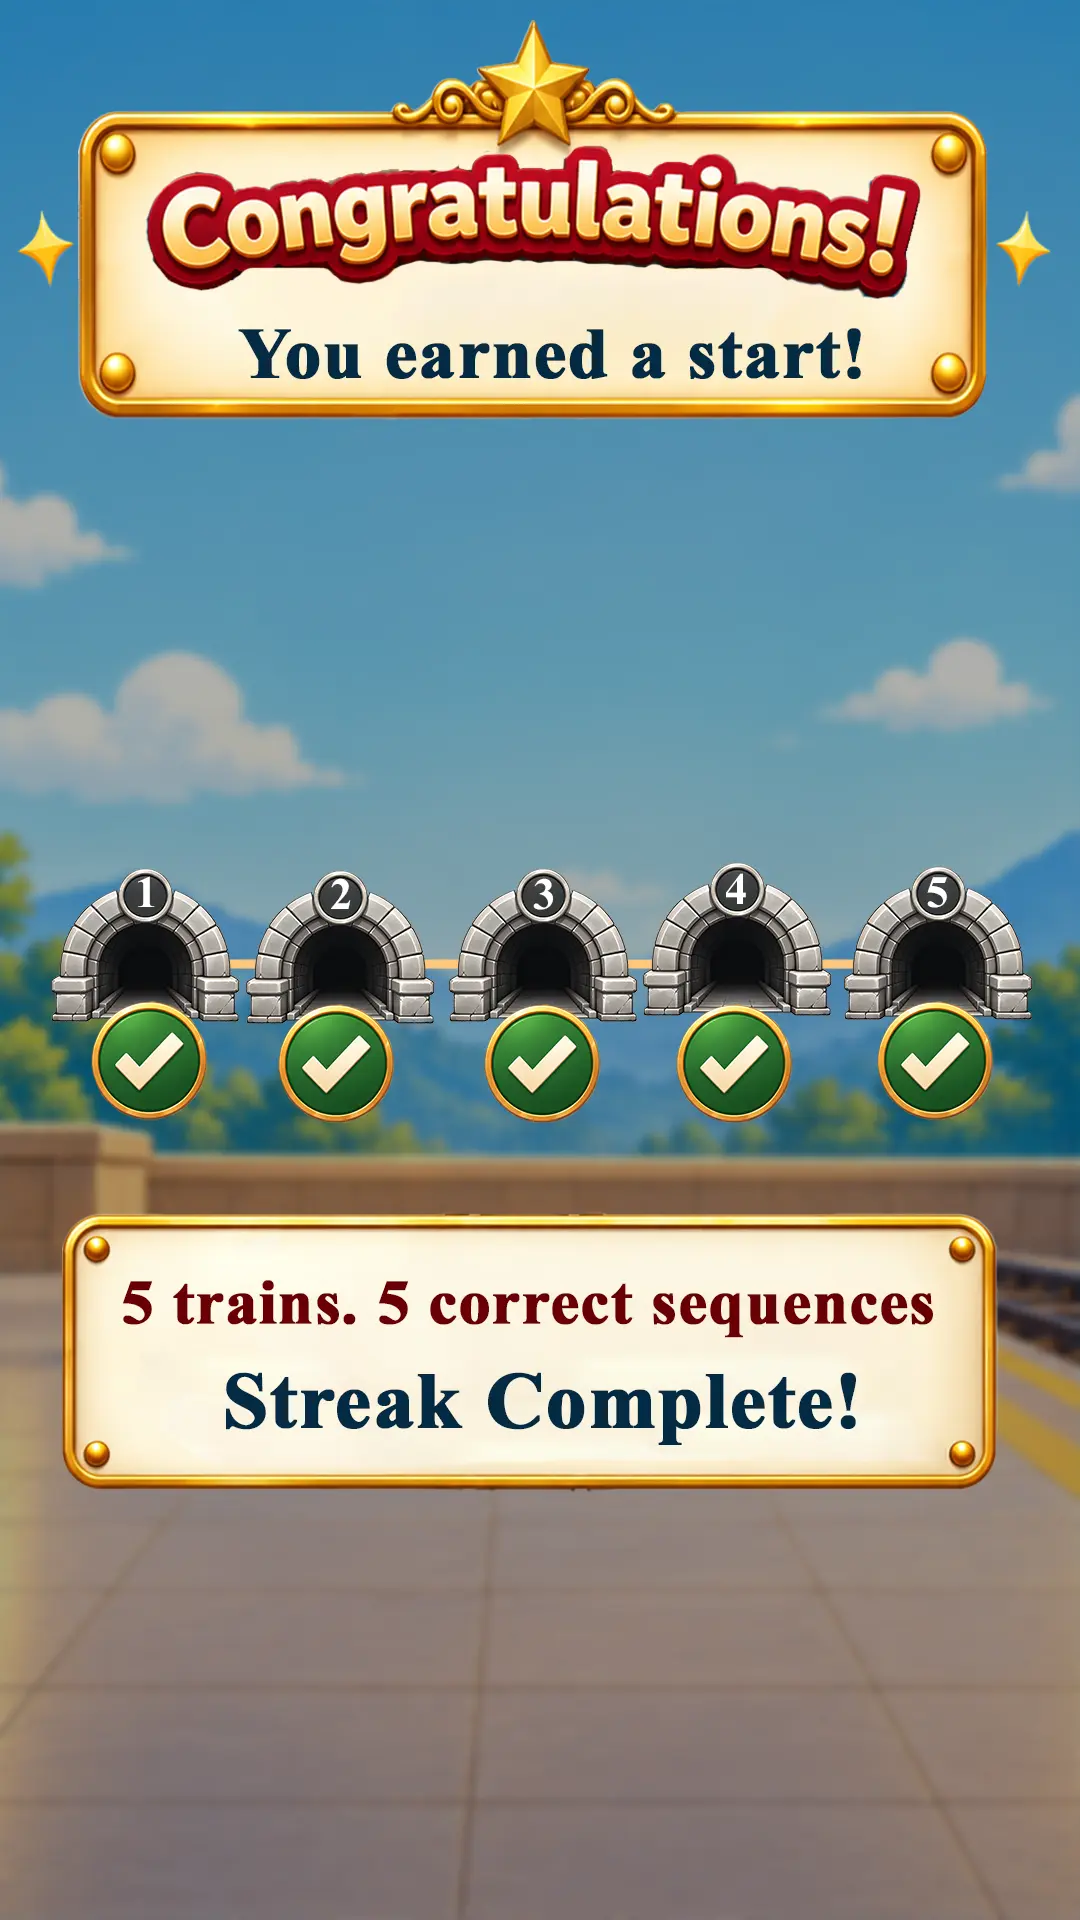
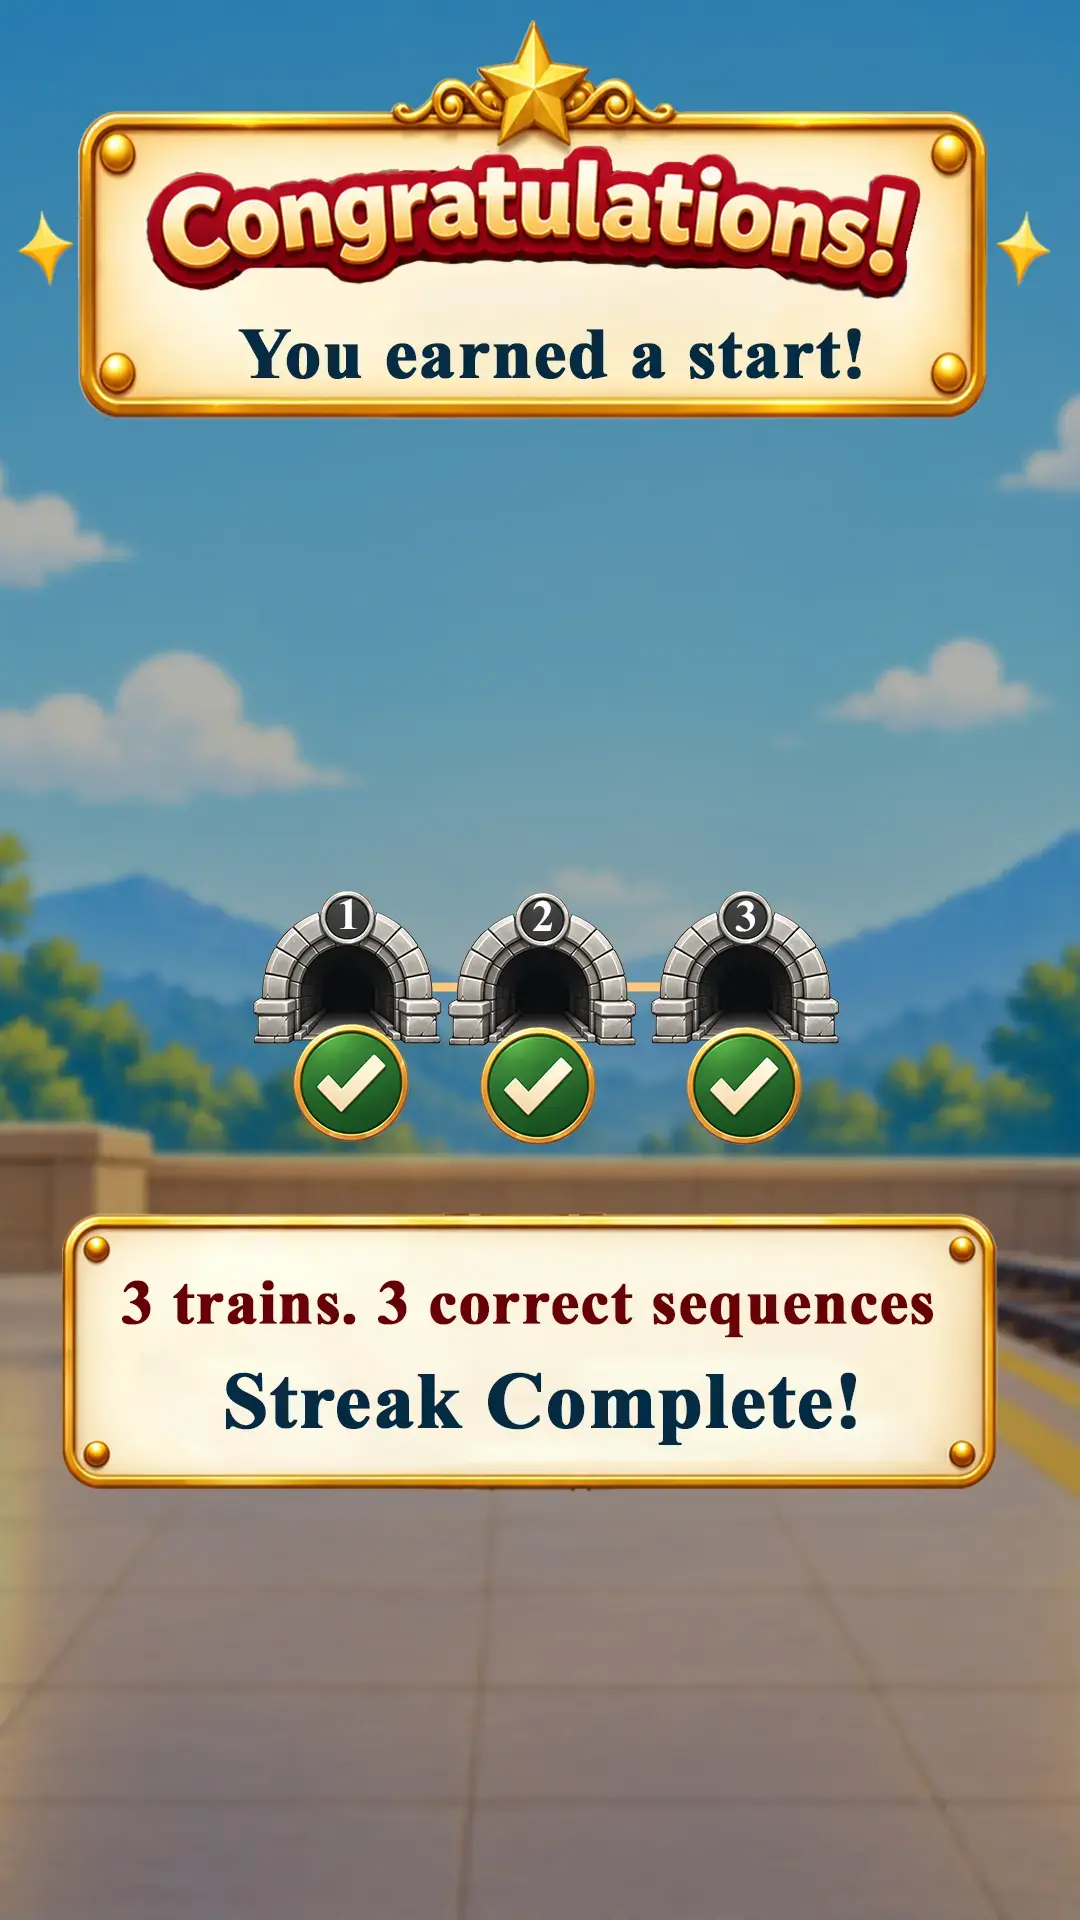
Refresh three-round challenge artwork and add Match It Blast It preview

Changed region(s): [[0.0306, 0.4375, 0.9778, 0.5938], [0.3361, 0.6562, 0.3972, 0.6875], [0.1222, 0.6562, 0.1528, 0.6875]]

diff --git a/index.html b/index.html
@@ -21,7 +21,7 @@
       if (l === 'te' || l === 'hi' || l === 'en') document.documentElement.lang = l;
     } catch (_) { }
   </script>
-  <link rel="stylesheet" href="./styles.css?v=53">
+  <link rel="stylesheet" href="./styles.css?v=54">
   <script src="./tile-match.js?v=23" defer></script>
   <script src="./app.js?v=31" defer></script>
   <link rel="stylesheet" href="./leaderboard.css?v=5">
@@ -477,7 +477,7 @@
             <img src="assets/solvent-master-game-assets/page-1/page-1-bg.webp" alt="Solvent Master" class="poster-card-image" loading="lazy">
           </div>
         </a>
-        <a class="game-poster poster-ab-express playable-poster" href="assets/ab-express-scripts/ab-express.html?v=45" aria-label="Play AB Express">
+        <a class="game-poster poster-ab-express playable-poster" href="assets/ab-express-scripts/ab-express.html?v=46" aria-label="Play AB Express">
           <div class="poster-card-wrap">
             <img src="assets/ab-express-assets/page-1/page-1-bg.webp" alt="AB Express" class="poster-card-image" loading="lazy">
           </div>
@@ -568,11 +568,18 @@
             <img src="assets/solvent-master-game-assets/page-1/page-1-bg.webp" alt="Solvent Master" class="poster-card-image" loading="lazy">
           </div>
         </a>
-        <a class="game-poster poster-ab-express playable-poster" href="assets/ab-express-scripts/ab-express.html?v=45" aria-label="Play AB Express">
+        <a class="game-poster poster-ab-express playable-poster" href="assets/ab-express-scripts/ab-express.html?v=46" aria-label="Play AB Express">
           <div class="poster-card-wrap">
             <img src="assets/ab-express-assets/page-1/page-1-bg.webp" alt="AB Express" class="poster-card-image" loading="lazy">
           </div>
         </a>
+        <article class="game-poster poster-match-blast" aria-label="Match It, Blast It - coming soon">
+          <div class="poster-card-wrap match-blast-banner">
+            <div class="match-blast-tiles" aria-hidden="true"><span>&#9670;</span><span>&#9670;</span><span>&#10022;</span></div>
+            <h2><span>Match It,</span><strong>Blast It</strong></h2>
+            <span class="match-blast-status">Coming Soon</span>
+          </div>
+        </article>
       </section>
       <section id="sample-preparation-gallery" class="sample-preparation-gallery" aria-label="Sample Preparation games"
         lang="en" hidden>

diff --git a/sw.js b/sw.js
@@ -1,8 +1,8 @@
 const CACHE_PREFIX = 'aurobindo-shell-';
-const CACHE = `${CACHE_PREFIX}v477`;
+const CACHE = `${CACHE_PREFIX}v478`;
 const ASSETS = ['./', './index.html', './styles.css?v=30', './app.js?v=18', './tile-match.js?v=23', './symptom-match.html', './symptom-match.css?v=18', './symptom-match.js?v=20', './chromatogram.html', './chromatogram.css?v=23', './chromatogram.js?v=22', './assets/toggle%20button.png', './assets/4%20arrow%20toggle%20outline.png', './assets/hpcl-logo-new.png', './assets/game-1-card.png', './assets/game-2-card.png', './assets/game-3-card.png', './assets/game-4-card.png', './logo.png', './icon.svg', './icons/icon-192.png', './icons/icon-512.png', './manifest.webmanifest?v=2'];
 ASSETS.push('./cleaning-solution.html', './cleaning-solution.css?v=7', './cleaning-solution.js?v=6');
-ASSETS.splice(ASSETS.indexOf('./styles.css?v=30'), 1, './styles.css?v=53');
+ASSETS.splice(ASSETS.indexOf('./styles.css?v=30'), 1, './styles.css?v=54');
 ASSETS.push('./audio/10s-timer-audio.wav', './assets/stopwatch.svg', './liquid-sort.html', './liquid-sort.css?v=60', './liquid-sort.js?v=58', './assets/test-tube.png', './audio/pour-audio.mp3', './assets/test-tube-game-assets/images/1-title-page/bg.webp', './assets/test-tube-game-assets/images/1-title-page/start-button.webp');
 ASSETS.push('./assets/positive-stickers/Anna%20Nuvvu%20King%20Telugu.webp', './assets/positive-stickers/Box%20Office%20Badhalu%20Kottav%20Telugu.webp', './assets/positive-stickers/Kya%20Baat%20Hai%20Hindi.webp', './assets/positive-stickers/Nailed%20It%21%20English.webp', './assets/positive-stickers/Shabaash%20Hindi.webp', './assets/negative-stickers/1.png', './assets/negative-stickers/2.png', './assets/negative-stickers/3.png', './assets/negative-stickers/4.png', './assets/negative-stickers/5.png');
 ASSETS.push(...['report-page-bg', 'watch-video-button', 'play-again-button', 'back-to-menu-button'].map(name => `./assets/test-tube-game-assets/images/9-report-page/${name}.webp`));

diff --git a/styles.css b/styles.css
@@ -1567,3 +1567,15 @@ button:focus-visible,a:focus-visible{outline-color:#a35cee}
 .activities-divider::before,.activities-divider::after{content:"";height:1px;flex:1;background:linear-gradient(90deg,transparent,#b78ce45c)}
 .activities-divider::after{transform:scaleX(-1)}
 .activities-divider span{width:5px;height:5px;border:1px solid #c7a6ea99;transform:rotate(45deg)}
+
+/* RC preview: Match It, Blast It. */
+.match-blast-banner{display:flex;flex-direction:column;align-items:center;justify-content:center;gap:24px;padding:24px 16px;text-align:center;border:2px solid #c6a2ff;background:radial-gradient(ellipse at 50% 38%,#8b3dd2 0%,#3d176a 48%,#17112f 100%);color:#fff4d3}
+.match-blast-banner::before{content:"";position:absolute;inset:12px;border:1px solid #e0b8ff40;border-radius:12px;pointer-events:none}
+.match-blast-banner h2{margin:0;font-family:Arial,sans-serif;font-weight:900;font-size:clamp(26px,3vw,38px);line-height:1.12;text-shadow:0 3px 0 #37105d,0 5px 14px #130822}
+.match-blast-banner h2 span,.match-blast-banner h2 strong{display:block}
+.match-blast-banner h2 strong{color:#ffd357;font-size:1.2em;margin-top:6px}
+.match-blast-tiles{display:flex;align-items:center;gap:8px}
+.match-blast-tiles span{display:grid;place-items:center;width:36px;height:44px;border:2px solid #b3fbff;border-radius:12px;background:linear-gradient(#56e5ee,#1177b8);box-shadow:0 5px 0 #102e70;font:900 32px Arial;color:#e0ffff;transform:rotate(-9deg)}
+.match-blast-tiles span:nth-child(2){transform:translateY(-8px) rotate(6deg)}
+.match-blast-tiles span:last-child{color:#fff2aa;border-color:#ffe6a0;background:linear-gradient(#ffbd40,#eb5427);transform:rotate(12deg);box-shadow:0 5px 0 #9a285e}
+.match-blast-status{padding:8px 12px;border:1px solid #d4b2fb70;border-radius:30px;background:#1b123d80;color:#e6d4fa;font:700 11px Arial;letter-spacing:1px;white-space:nowrap;text-transform:uppercase}

diff --git a/assets/ab-express-scripts/ab-express.html b/assets/ab-express-scripts/ab-express.html
@@ -3,13 +3,13 @@
 <head>
   <meta charset="utf-8"><meta name="viewport" content="width=device-width, initial-scale=1, viewport-fit=cover">
   <meta name="theme-color" content="#193c4d"><title>AB Express</title>
-  <link rel="stylesheet" href="ab-express.css?v=45">
-  <script defer src="ab-express-config.js?v=45"></script>
-  <script defer src="ab-express-core.js?v=45"></script>
-  <script defer src="ab-express-assets.js?v=45"></script>
-  <script defer src="ab-express-effects.js?v=45"></script>
-  <script defer src="ab-express-audio.js?v=45"></script>
-  <script defer src="ab-express.js?v=45"></script>
+  <link rel="stylesheet" href="ab-express.css?v=46">
+  <script defer src="ab-express-config.js?v=46"></script>
+  <script defer src="ab-express-core.js?v=46"></script>
+  <script defer src="ab-express-assets.js?v=46"></script>
+  <script defer src="ab-express-effects.js?v=46"></script>
+  <script defer src="ab-express-audio.js?v=46"></script>
+  <script defer src="ab-express.js?v=46"></script>
 </head>
 <body>
   <main id="game" aria-label="AB Express"><div id="screen"></div><div id="particles" aria-hidden="true"></div><div id="notice" role="status" aria-live="polite"></div></main>

diff --git a/assets/ab-express-scripts/ab-express.js b/assets/ab-express-scripts/ab-express.js
@@ -297,7 +297,6 @@
     const halo = document.createElement('div'); halo.className = 'challenge-star-halo'; halo.setAttribute('aria-hidden','true'); screen.append(halo);
     const sparkles = document.createElement('div'); sparkles.className = 'challenge-sparkles'; sparkles.setAttribute('aria-hidden','true');
     [[35,49],[65,51],[38,59],[61,58]].forEach(([x,y],i)=>{const spark=document.createElement('i');spark.style.left=`${x}%`;spark.style.top=`${y}%`;spark.style.animationDelay=`${1+i*.45}s`;sparkles.append(spark);});screen.append(sparkles);
-    const instruction=document.createElement('div');instruction.className='challenge-instructions';instruction.innerHTML=`Get the train through <b>${C.challengeRounds}</b><br>tunnels in a row to win a star`;screen.append(instruction);
     drawStreak(progress.run?.index || 0, celebrate);
     for (const [index,node] of Array.from(screen.querySelectorAll('.streak-node')).entries()) {
       const slot = document.createElement('div'); slot.className = 'streak-slot'; slot.style.setProperty('--reveal-delay',`${.3+index*.09}s`); node.replaceWith(slot); slot.append(node);

diff --git a/assets/ab-express-scripts/sw.js b/assets/ab-express-scripts/sw.js
@@ -1,6 +1,6 @@
 /* Only AB Express resources are owned by this worker. */
-const CACHE = 'ab-express-v45';
-const SHELL = ['ab-express.html','ab-express.css?v=45','ab-express-config.js?v=45','ab-express-core.js?v=45','ab-express-assets.js?v=45','ab-express-effects.js?v=45','ab-express-audio.js?v=45','ab-express.js?v=45'];
+const CACHE = 'ab-express-v46';
+const SHELL = ['ab-express.html','ab-express.css?v=46','ab-express-config.js?v=46','ab-express-core.js?v=46','ab-express-assets.js?v=46','ab-express-effects.js?v=46','ab-express-audio.js?v=46','ab-express.js?v=46'];
 self.addEventListener('install', event => event.waitUntil(caches.open(CACHE).then(cache => cache.addAll(SHELL)).then(() => self.skipWaiting())));
 self.addEventListener('activate', event => event.waitUntil(caches.keys().then(keys => Promise.all(keys.filter(key => key.startsWith('ab-express-') && key !== CACHE).map(key => caches.delete(key)))).then(() => self.clients.claim())));
 self.addEventListener('fetch', event => {

diff --git a/assets/ab-express-scripts/ab-express.css b/assets/ab-express-scripts/ab-express.css
@@ -167,8 +167,6 @@ body.portrait-viewport{background-image:none;background-color:#122a37}
 @keyframes victory-light{0%{opacity:0}12%{opacity:1}30%{opacity:.65}50%{opacity:1}80%{opacity:.7}100%{opacity:0}}
 
 /* Three-round challenge: generated copy and tunnels match the challenge target. */
-.challenge-instructions{position:absolute;left:13%;top:20.5%;width:74%;height:7.5%;z-index:3;background:#fff7df;display:flex;flex-direction:column;justify-content:center;text-align:center;font:700 17px/1.12 Arial;color:#07374b;display:block;padding-top:.4%;border-radius:7px}
-.challenge-instructions b{color:#9b1022}
 .animated-challenge .streaks{left:17%;width:66%;gap:12px;background:none;box-shadow:none;justify-content:center}
 .animated-challenge .streak-slot{width:30%;flex:0 1 30%}
 .streak-node>img,.failed-tunnels div>img:first-child{clip-path:polygon(2% 97%,2% 70%,9% 65%,11% 49%,17% 35%,25% 23%,36% 14%,39% 3%,60% 3%,64% 14%,75% 23%,83% 35%,89% 49%,91% 65%,98% 70%,98% 97%)}

diff --git a/assets/ab-express-scripts/ab-express-config.js b/assets/ab-express-scripts/ab-express-config.js
@@ -1,7 +1,7 @@
 (function (root) {
   'use strict';
   const config = {
-    version: '45', storageKey: 'ab-express-progress-v1',
+    version: '46', storageKey: 'ab-express-progress-v1',
     audio: { menu: 'audio/menu-bgm.aac', game: 'audio/gameplay-bgm.aac', wrong: 'audio/wrong-answer.aac', trainEntry: 'audio/train-entry.aac', correct: 'audio/correct-compartment.aac', whoosh: 'audio/rearrange.wav', trainEntryVolume: .95, correctVolume: .7, whooshVolume: .16, explosion: 'audio/explosion.mp3', explosionVolume: .65, menuVolume: .28, gameVolume: .28, wrongVolume: .55, buttonVolume: .5, tick: 'audio/timer-tick.wav', tickVolume: .32, crossfade: .85 },
     challengeRoundSeconds: 90, challengeRounds: 3, practiceRounds: 5,
     timing: { celebrationRead: 3600, cardEntry: 520, cardStagger: 90, startReadHold: 2000, departure: 950, intro: 1300, trainEntry: 2000, compartment: 950, feedback: 1300, answerReveal: 650, answerRead: 1600, streak: 1400, reward: 1600 },

diff --git a/assets/ab-express-scripts/ab-express-assets.js b/assets/ab-express-scripts/ab-express-assets.js
@@ -241,7 +241,7 @@ window.ABAssets = [
   },
   {
     "path": "page-15/page-15-bg.webp",
-    "bytes": 106064
+    "bytes": 75528
   },
   {
     "path": "page-15/play-button.webp",
@@ -265,7 +265,7 @@ window.ABAssets = [
   },
   {
     "path": "page-17/page-17-bg.webp",
-    "bytes": 119208
+    "bytes": 78554
   },
   {
     "path": "page-17/star.webp",

diff --git a/assets/ab-express-scripts/ab-express-game-progress.md b/assets/ab-express-scripts/ab-express-game-progress.md
@@ -338,3 +338,19 @@
 ### 2026-11-05 - Timeout banner blend and release (v45)
 - Matched the timeout heading mask to the surrounding cream/gold panel with a soft gradient and feathered edges. Kept supplied artwork and layout unchanged.
 - Syntax, seven core tests and browser timeout regression passed; screenshot reviewed. Cache advanced to v45. User authorized pushing all pending AB Express changes including v37-v44 fixes and supplied artwork.
+
+
+### 2026-11-05 - Three-tunnel supplied backgrounds (v46)
+- Compared old/new artwork before replacing: both remain 1080x1920. Page 15 changes the instruction from five to three; page 17 replaces five tunnels with three centred tunnels and changes the completion sentence to three trains/three sequences.
+- Copied both supplied WebPs unchanged, verified hashes, and removed the obsolete challenge instruction text mask so the supplied lettering is visible. Preserved progress tunnel animation, 90-second timer, reward effects and existing three-win logic.
+- Regenerated preload manifest and advanced config, shell, scoped worker and gallery URLs to v46. Added both image hashes to the cache regression. Syntax/seven core tests passed; Edge and WebKit completed three-round award and failure flows; screenshots reviewed. WebKit verified exact new cached bytes and stale-shell refresh. Physical-device review pending. Not pushed.
+
+
+### 2026-11-05 - Follow-up completeness audit
+- Rechecked challenge configuration, third-win award/navigation, three-node intro and failure display, legacy-save migration, reward backgrounds and aligned v46 cache URLs. No additional five-round challenge behavior found; practice intentionally retains five rounds.
+- Edge all-page audit passed 161 page/viewport checks across seven sizes with no detected control overlaps, text overflow or runtime errors. Reviewed updated demo 4 screenshot. WebKit challenge animation/pause/resume and viewport checks passed, as did exact-image cache and stale-shell refresh checks. Physical phones remain unverified. Latest v46 backgrounds and RC Match It, Blast It banner remain unpushed.
+
+
+### 2026-11-05 - v46 release verification
+- User confirmed practice stays at five sets and authorized push. Challenge remains three consecutive wins per star.
+- Expanded cache regression to SHA-256 verify all 88 manifest assets against local files; Edge and WebKit passed. Edge also passed offline replay; both refreshed stale HTML. All game asset URLs use v46 and old scoped caches are removed on activation. Root shell v478/CSS v54 refresh the pending RC banner. Seven core tests and syntax checks passed.
